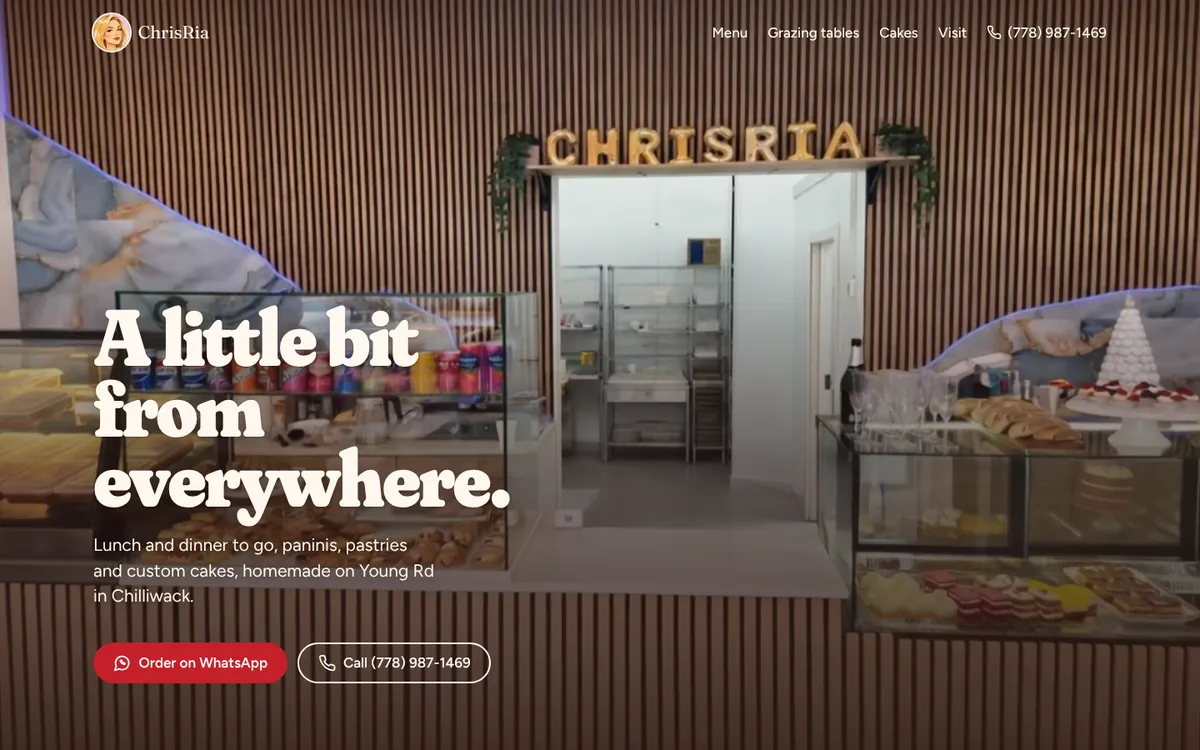
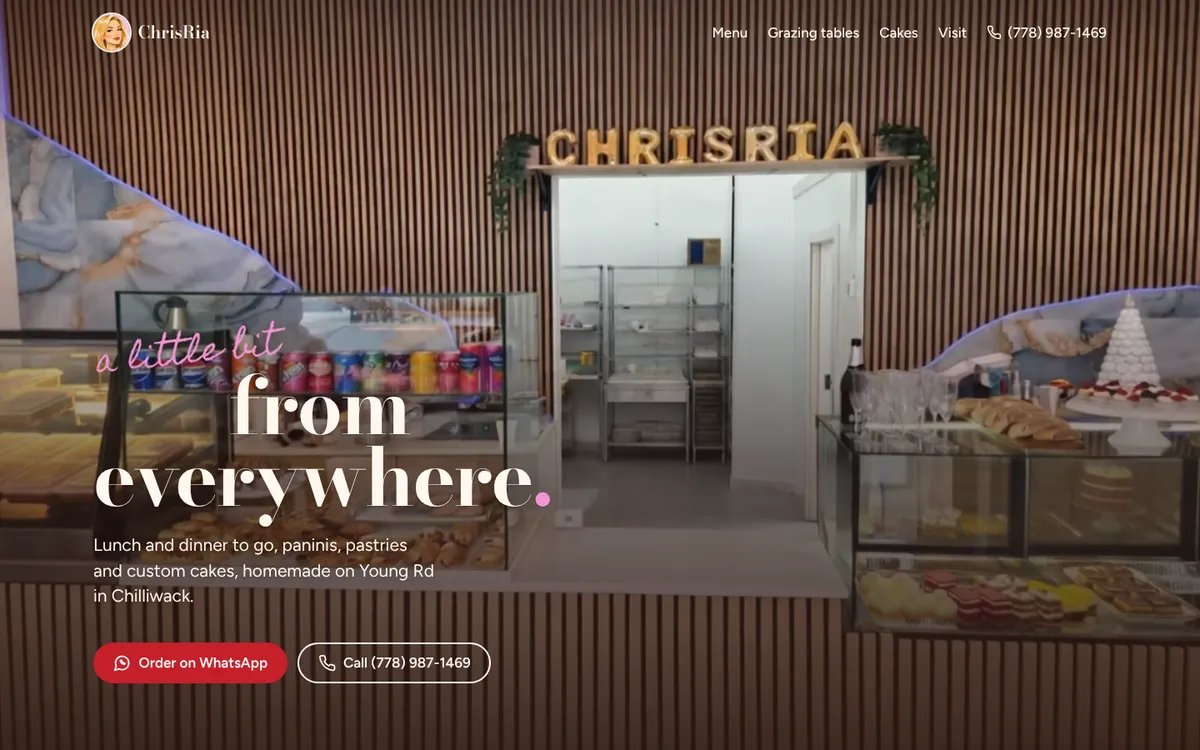
Bodoni lockup hero, pink as the site's highlight, subtle vignettes
- Hero: handwritten 'a little bit' (pink) signs into a staggered Bodoni Moda
  'from / everywhere' with a pink full stop; opsz pinned to 32 so hairlines
  survive the video; text shadow kept
- Display face: Fraunces -> Bodoni Moda site-wide (matches the editorial logo)
- Pink highlight system: --accent per ground (red on light, --pink-hi on dark),
  accent full stops on every headline, highlighter links on paper, pink labels
  and underlines on dark; gold retired
- Vignettes: espresso on photos, hero and walnut wall; walnut glow on the grazing
  section; blush on paper; rose edges on the cakes section

Claude-Session: https://claude.ai/code/session_01424uMNrb9vNWLke91jP924

Changed region(s): [[0.0617, 0.3987, 0.4625, 0.7053], [0.1233, 0.0307, 0.185, 0.0613]]

diff --git a/src/styles/global.css b/src/styles/global.css
@@ -25,8 +25,8 @@ img, video { height: auto; }
 
 h1, h2, h3 {
   font-family: var(--font-display);
-  font-weight: 560;
-  font-variation-settings: "SOFT" 100, "WONK" 0; /* Fraunces: soft, rounded serifs like piped icing */
+  font-weight: 600;
+  font-optical-sizing: auto; /* Bodoni Moda: true display contrast on paper */
   line-height: 1.02;
   letter-spacing: -0.02em;
   margin: 0;
@@ -35,6 +35,28 @@ h1, h2, h3 {
 p { margin: 0; text-wrap: pretty; }
 a { color: inherit; }
 a[href^="tel:"] { white-space: nowrap; }
+
+/* The accent full stop that ends every display headline. */
+.stop { color: var(--accent); }
+
+/* Dark grounds swap the highlight to pink. */
+.on-dark { --accent: var(--pink-hi); --focus: var(--cream); }
+
+/* Highlighter link on light grounds: a pink marker stroke behind the lower half of the text. */
+.mark {
+  text-decoration-line: underline;
+  text-decoration-color: var(--pink);
+  text-decoration-thickness: 0.42em;
+  text-underline-offset: -0.22em;
+  text-decoration-skip-ink: none;
+  font-weight: 600;
+}
+@media (hover: hover) and (pointer: fine) {
+  .mark { transition: text-decoration-color 200ms ease; }
+  .mark:hover { text-decoration-color: rgb(var(--rose-rgb)); }
+}
+/* Thin pink underline for links on dark grounds. */
+.on-dark a:not(.btn) { text-decoration-color: var(--pink-hi); text-underline-offset: 0.2em; }
 ul { margin: 0; padding: 0; list-style: none; }
 
 :focus-visible {
@@ -105,21 +127,25 @@ ul { margin: 0; padding: 0; list-style: none; }
 
 /* ---------- Walnut slat wall: a texture cut from their own counter photo ----------
    The component sets --slats to the image URL (it needs the site base path).
-   Text never sits on the raw slats (gold drops to 2.6:1 on the light slats):
-   the wall fades into solid walnut behind the copy. */
+   Text never sits on the raw slats (pink drops to 3.5:1 on the light slats):
+   the wall fades into solid walnut behind the copy, and an espresso vignette
+   closes the edges. */
 .slats {
   --focus: var(--cream);
+  --accent: var(--pink-hi);
   background-color: var(--walnut);
   background-image:
+    radial-gradient(130% 110% at 50% 45%, rgb(var(--ink-rgb) / 0) 55%, rgb(var(--ink-rgb) / 0.5) 100%),
     linear-gradient(to bottom, rgb(var(--walnut-rgb) / 0) 0 30%, var(--walnut) 52%),
     var(--slats, none);
-  background-size: 100% 100%, 352px 100%;
-  background-repeat: no-repeat, repeat-x;
+  background-size: 100% 100%, 100% 100%, 352px 100%;
+  background-repeat: no-repeat, no-repeat, repeat-x;
   color: var(--cream);
 }
 @media (min-width: 900px) {
   .slats {
     background-image:
+      radial-gradient(120% 130% at 60% 50%, rgb(var(--ink-rgb) / 0) 55%, rgb(var(--ink-rgb) / 0.5) 100%),
       linear-gradient(to right, rgb(var(--walnut-rgb) / 0) 0 34%, var(--walnut) 52%),
       var(--slats, none);
   }
@@ -130,7 +156,12 @@ ul { margin: 0; padding: 0; list-style: none; }
 .blob-alt { clip-path: url(#blob-alt); }
 
 /* Photo hover: barely-there feedback on fine pointers only. */
-.photo-zoom { overflow: hidden; }
+.photo-zoom { overflow: hidden; position: relative; }
+/* Every photo gets the same soft espresso vignette, so phone snapshots read as one set. */
+.photo-zoom::after {
+  content: ""; position: absolute; inset: 0; pointer-events: none;
+  background: radial-gradient(120% 100% at 50% 45%, rgb(var(--ink-rgb) / 0) 55%, rgb(var(--ink-rgb) / 0.32) 100%);
+}
 .photo-zoom img { transition: transform 200ms ease; }
 @media (hover: hover) and (pointer: fine) {
   .photo-zoom:hover img { transform: scale(1.02); }

diff --git a/src/styles/tokens.css b/src/styles/tokens.css
@@ -5,8 +5,11 @@
   Colour rules:
   - Red is text-and-fill on paper (5.3:1) and takes white text as a fill (5.9:1).
     Never red text on pink (3.8:1) below 24px.
-  - Gold is for dark grounds only (walnut 4.9:1, espresso 8.1:1). Never gold on paper.
-  - Pink is a shape colour (the logo's blob) on light grounds; text-capable only on dark grounds.
+  - Pink is the site's highlight. --pink (the logo's blob) is for fills, glows, the
+    highlighter and the stamp. --pink-hi is the same hue saturated for text on dark grounds,
+    because pale pink reads as cream at small sizes. On light grounds pink is never text.
+  - --accent is the per-ground highlight: red on light sections, pink on dark ones.
+    Every display headline ends in an accent full stop (.stop).
 */
 :root {
   --paper: #fbf0f2;      /* blush paper: logo blob diluted */
@@ -15,17 +18,20 @@
   --ink-soft: #6b4a40;   /* secondary text on paper, 7.0:1 */
   --red: #c42029;        /* the apron and the skillet */
   --red-deep: #9e1820;   /* pressed state */
-  --pink: #f0c3e3;       /* the logo's blob, sampled */
+  --pink: #f0c3e3;       /* the logo's blob, sampled: the site's highlight */
+  --pink-rgb: 240 195 227;
+  --pink-hi: #f094d1;       /* same hue, more saturated: pink TEXT on dark grounds (espresso 8.1:1, walnut 4.7:1) */
+  --rose-rgb: 214 140 192;  /* deeper pink, vignette edges on the pink section only */
+  --accent: var(--red);     /* per-ground highlight; dark sections set it to pink */
   --walnut: #5e3823;     /* the slat wall behind the counter */
   --walnut-rgb: 94 56 35;
-  --gold: #d9ae4f;       /* the CHRISRIA letters */
   --cream: #fff8ef;      /* text on dark grounds */
   --field: #ffffff;      /* form field fill */
   --on-red: #ffffff;     /* text on red fills, 5.9:1 */
   --line: rgb(var(--ink-rgb) / 0.18);        /* hairlines on paper */
   --line-strong: rgb(var(--ink-rgb) / 0.38); /* control borders on paper */
 
-  --font-display: "Fraunces", "Georgia", serif;
+  --font-display: "Bodoni Moda", "Didot", "Georgia", serif;
   --font-body: "Figtree", system-ui, sans-serif;
   --font-hand: "Homemade Apple", "Segoe Script", cursive;
 

diff --git a/src/data/site.ts b/src/data/site.ts
@@ -96,6 +96,9 @@ export const nav = [
   { label: "Visit", href: "#visit" },
 ];
 
+// Display headlines end in an accent full stop; split it off so it can be styled.
+export const stop = (s: string) => (s.endsWith(".") ? s.slice(0, -1) : s);
+
 export const waHref = (text: string) =>
   `https://wa.me/${site.whatsapp}?text=${encodeURIComponent(text)}`;
 

diff --git a/DESIGN.md b/DESIGN.md
@@ -23,26 +23,30 @@ Sampled from the logo and the shop, not picked from a swatch book.
 | `--paper` | #FBF0F2 | logo blob, diluted | page ground |
 | `--ink` | #2B1813 | the chocolate cake | text, dark sections |
 | `--red` | #C42029 | apron and skillet | CTAs, sweet/savory headings |
-| `--pink` | #F0C3E3 | logo blob (sampled #F0C0E4) | cakes section, stamp, message bubble |
+| `--pink` | #F0C3E3 | logo blob (sampled #F0C0E4) | the highlight: cakes section, stamp, bubble, highlighter links, blush vignette |
+| `--pink-hi` | #F094D1 | same hue, saturated | pink *text* on dark grounds: hero script, headline stops, labels, underlines |
 | `--walnut` | #5E3823 | slat wall behind the counter | visit section, hero fallback |
-| `--gold` | #D9AE4F | the CHRISRIA letters | labels on dark grounds only |
 
 Contrast (WCAG): ink/paper 15.2, red/paper 5.3, white/red 5.9, ink/pink 11.0, red/pink **3.8**
-(large text only), gold/walnut 4.9, gold/ink 8.1, cream/walnut 9.6.
+(large text only), pink-hi/ink 7.9, pink-hi/walnut 4.8, cream/walnut 9.6.
 
-Rules: gold never sits on paper. Red is never small text on pink. Pink is a shape colour
-on light grounds.
+**Pink highlights the site.** `--accent` is the per-ground highlight: red on light sections,
+`--pink-hi` on dark ones (`.on-dark`). Every display headline ends in an accent full stop
+(`.stop`). Links on paper get a pink highlighter stroke (`.mark`); links on dark grounds get a
+thin pink underline. Pale pink is never text: at small sizes it reads as cream. Gold was retired
+so pink is the only highlight.
 
 ## Type
 
-- **Fraunces** for display, with the `SOFT` axis at 100 so the serifs round off like
-  piped icing. Section heads are set at 560. The hero tagline is the one loud line: 900
-  weight, `WONK` on, tight leading, lifted off the photo by `--shadow-text`, so it reads
-  like a bakery sign. It replaced Gloock, which read bland over the video. Rejected
-  alternatives: Bodoni Moda (its hairlines vanish over moving footage) and Fraunces italic
-  (the stock AI-startup hero, flagged by the design detector).
+- **Bodoni Moda** for display. Section headings use automatic optical sizing for true
+  Didone contrast on paper. The hero tagline is a lockup: the handwritten "a little bit" in
+  `--pink-hi` (Homemade Apple, tilted -6°) signs into an indented "from", over "everywhere"
+  and a pink full stop. The hero sets Bodoni at 700 with the optical size pinned to 32, not
+  the ~96 it would auto-pick, so the hairlines are thick enough to survive moving video.
+  `--shadow-text` lifts it off the photo. Tried and rejected: Gloock (bland), Fraunces Soft
+  (good but heavy) and Fraunces italic (flagged as the stock AI hero).
 - **Figtree** for body and UI: round, friendly, legible at 16–17px.
-- **Homemade Apple**: handwritten notes, at most three on the page. The font name
+- **Homemade Apple**: the hero lead-in and handwritten notes, no more than four uses on the page. The font name
   matches the brand's "homemade" voice.
 
 Scale is 1.25 from a 17px body (`--step--1` … `--step-5`).
@@ -56,6 +60,10 @@ Scale is 1.25 from a 17px body (`--step--1` … `--step-5`).
 - **The plate**: a circular photo with a cream rim (Grainhaus).
 - Two radii only: `--radius-pill` for small controls, `--radius-soft` (14px) for every rounded rectangle (form panel, fields, message bubble, storefront photo, reveal clip). Circles (plate, stamp, step numbers) are shapes.
 - One elevation: `--shadow-lift`, used by the plate and the desktop order pill.
+- **Vignettes** close every frame softly. Espresso on photos (`.photo-zoom::after`,
+  the grazing photo), the hero (in the scrim) and the walnut wall. A warm walnut glow from above
+  on the espresso grazing section. Blush pink at the edges of the paper section, and a deeper
+  rose (`--rose-rgb`) on the pink cakes section, where ink stays at 8.5:1 even in the corners.
 - Translucent ink only through `--ink-rgb`, `--line` and `--line-strong`. No raw hex in components.
 
 ## Motion
